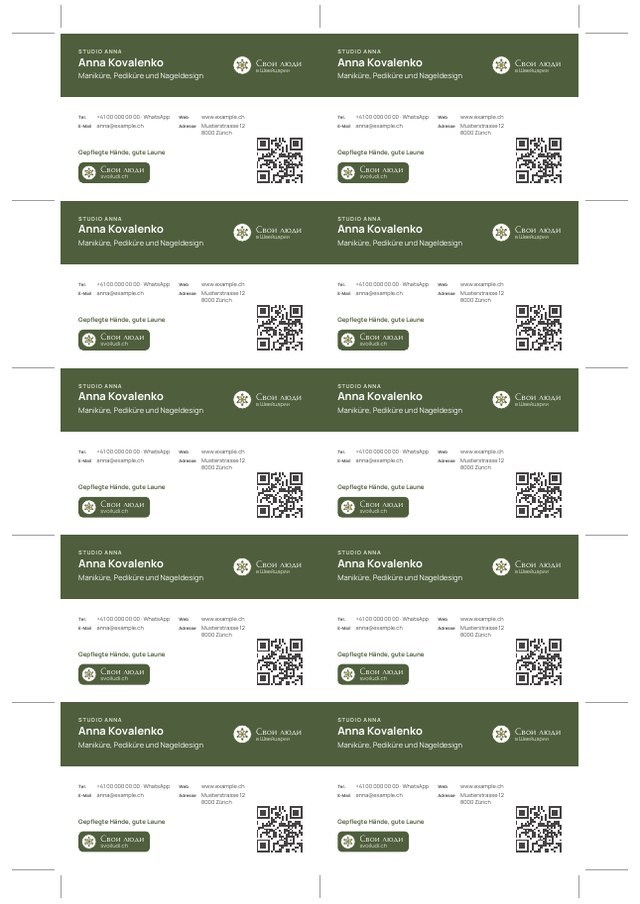
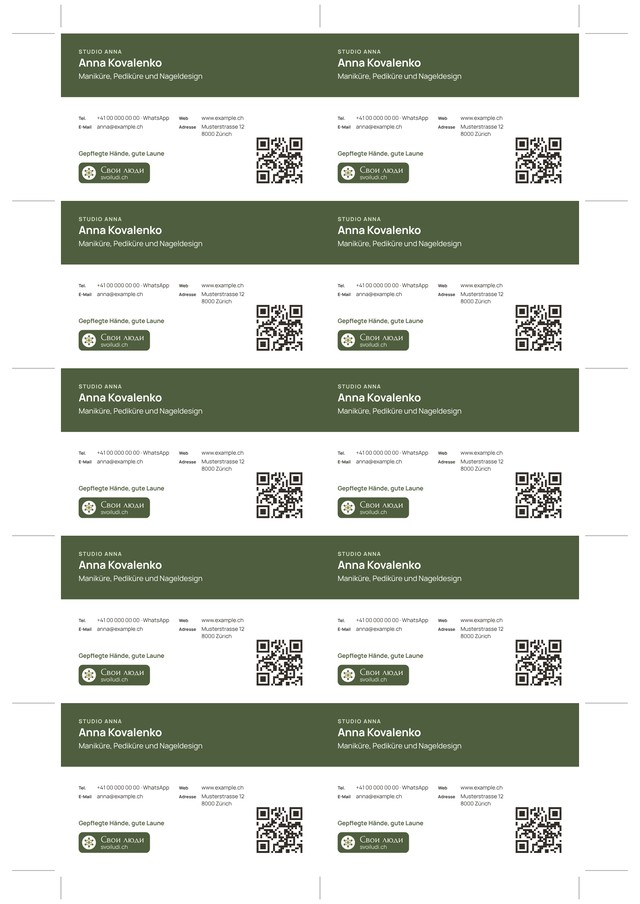
Визитка для печати: в примере без логотипа — «Свои люди» только знаком внизу
Claude-Session: https://claude.ai/code/session_01KYzKVqPN5JwVDB1sZfvcxk

diff --git a/instrumenty/vizitka/index.html b/instrumenty/vizitka/index.html
@@ -184,7 +184,7 @@ input:disabled,select:disabled{opacity:.7}
       <p class="hint" id="markNote"></p></div>
   </div>
 
-  <div class="exbar" id="exbar" hidden><span>Это пример: имя и контакты вымышленные, на месте логотипа — логотип «Свои люди». Так будет выглядеть твоя визитка.</span><button type="button" class="btn sm" id="exOff">Вернуться к моим данным</button></div>
+  <div class="exbar" id="exbar" hidden><span>Это пример, всё в нём вымышленное. Так будет выглядеть твоя визитка, свой логотип можно добавить в поле «Логотип или фото».</span><button type="button" class="btn sm" id="exOff">Вернуться к моим данным</button></div>
 
   <div class="work">
     <div class="form" id="fields">
@@ -383,12 +383,14 @@ function blank(){
 function merge(a, b){ Object.keys(b || {}).forEach(k => { if (a[k] && typeof a[k] === 'object' && !Array.isArray(a[k]) && b[k] && typeof b[k] === 'object') merge(a[k], b[k]); else if (b[k] !== undefined) a[k] = b[k]; }); return a; }
 function norm(s){ if (OLD[s.layout]) s.layout = OLD[s.layout]; if (!TPL.some(t => t[0] === s.layout)) s.layout = 'band'; if (!SIZES[s.size]) s.size = '85x55'; if (s.orient !== 'v') s.orient = 'h'; if (!['icon', 'text', 'none'].includes(s.cstyle)) s.cstyle = 'icon'; s.nomark = !!s.nomark; return s; }
 function load(){ try { const s = JSON.parse(localStorage.getItem(KEY)); if (s && typeof s === 'object') return norm(merge(blank(), s)); } catch (e) {} return blank(); }
-let S = load(), EX = null, LOGO = null, EXLOGO = null, EXNOLOGO = false, PAID = null, PAIDMSG = '';   // PAID — проверенный платный пакет (без знака «Свои люди»)
+let S = load(), EX = null, LOGO = null, PAID = null, PAIDMSG = '';   // PAID — проверенный платный пакет (без знака «Свои люди»)
 try { const l = JSON.parse(localStorage.getItem(KEYLOGO)); if (l && l.c) LOGO = l; } catch (e) {}
 function save(){ if (EX) return; try { localStorage.setItem(KEY, JSON.stringify(S)); } catch (e) {} }
 const D = () => EX || S;
 let LGX;   // логотип для миниатюр (подменяется на время их рисования)
-const LG = () => LGX !== undefined ? LGX : EX ? (EXNOLOGO ? null : EXLOGO) : LOGO;
+/* в примере логотипа нет: «Свои люди» на визитке — только знак внизу (Ирина 15.10.2026, 18:12: «свои люди только 1 раз, вверху убери»;
+   до этого на месте логотипа был логотип «Свои люди», а ещё раньше — вымышленный «Studio NAILS · BEAUTY») */
+const LG = () => LGX !== undefined ? LGX : EX ? null : LOGO;
 const get = (o, p) => p.split('.').reduce((a, k) => a == null ? a : a[k], o);
 const put = (o, p, v) => { const ks = p.split('.'), last = ks.pop(); ks.reduce((a, k) => a[k], o)[last] = v; };
 /* размер визитки в мм с учётом положения: [ширина, высота] */
@@ -614,23 +616,11 @@ function sign(P, d, o){
   return g.h;
 }
 /* логотип на белой скруглённой плашке (в шапке) или просто на белом поле */
-/* логотип «Свои люди» в примере (lg.svl) рисуем сами, прямо на фоне, без белой плашки (Ирина 14.10.2026, 22:33: «надпись «Свои люди» должна быть на фоне,
-   но без рамок»): кружок «своих» и рядом «Свои люди» и «в Швейцарии»; на шалфейной шапке — светлым, на белом поле — тёмным */
-const SVL_SUB = 'в Швейцарии';
-const svlRatio = () => { const H = 10, n = 0.5 * H / PT, u = 0.27 * H / PT; return 1.2 + Math.max(tw(SIGN.name, 'f', n), tw(SVL_SUB, 'r', u)) / H + 0.02; };
-function svlLogo(P, d, x, y, w, h, band){
-  const H = Math.min(h, w / svlRatio()), y0 = y + (h - H) / 2, x0 = x + (w - H * svlRatio()) / 2;
-  markIcon(P, x0, y0, H, d.bw);
-  const tx = x0 + H * 1.2, big = band ? C.BTX : (d.bw ? C.INK : '#3E4A31'), sub = band ? C.BSUB : C.MUT;
-  T(P, SIGN.name, tx, y0 + H * 0.56, 0.5 * H / PT, 'f', big);
-  T(P, SVL_SUB, tx, y0 + H * 0.86, 0.27 * H / PT, 'r', sub);
-}
 /* картинка логотипа в рамке x, y, w, h (рамка уже по пропорциям логотипа) */
-function logoImg(P, d, lg, x, y, w, h, band){ if (lg.svl) svlLogo(P, d, x, y, w, h, band); else P.img(logoData(d, lg), x, y, w, h); }
-/* белая плашка под логотипом — только у настоящих логотипов (у логотипа «Свои люди» её нет) */
-const plate = (P, lg, x, y, w, h, r) => { if (!lg.svl) P.rect(x, y, w, h, '#FFFFFF', null, r); };
+function logoImg(P, d, lg, x, y, w, h){ P.img(logoData(d, lg), x, y, w, h); }
+/* белая плашка под логотипом в шапке */
+const plate = (P, lg, x, y, w, h, r) => P.rect(x, y, w, h, '#FFFFFF', null, r);
 function logoAt(P, d, lg, x, y, w, h, plate){
-  if (lg.svl) { const lb = logoBox(lg, w, h); svlLogo(P, d, x + (w - lb.w) / 2, y + (h - lb.h) / 2, lb.w, lb.h, plate); return; }
   if (plate) { P.rect(x, y, w, h, '#FFFFFF', null, Math.min(w, h) * 0.12); const p = Math.min(w, h) * 0.12, lb = logoBox(lg, w - 2 * p, h - 2 * p); P.img(logoData(d, lg), x + (w - lb.w) / 2, y + (h - lb.h) / 2, lb.w, lb.h); }
   else { const lb = logoBox(lg, w, h); P.img(logoData(d, lg), x + (w - lb.w) / 2, y + (h - lb.h) / 2, lb.w, lb.h); }
 }
@@ -692,7 +682,7 @@ function tBandC(P, d, c, dr){
   if (dr) {
     bandRect(P, c, 0, hb);
     let y = c.Y + (hb - ih - (lph ? lph + c.g1 * 2 : 0)) / 2;
-    if (lb) { plate(P, lg, c.X + (c.CW - lpw) / 2, y, lpw, lph, 1.2); logoImg(P, d, lg, c.X + (c.CW - lb.w) / 2, y + 1.1, lb.w, lb.h, true); y += lph + c.g1 * 2; }
+    if (lb) { plate(P, lg, c.X + (c.CW - lpw) / 2, y, lpw, lph, 1.2); logoImg(P, d, lg, c.X + (c.CW - lb.w) / 2, y + 1.1, lb.w, lb.h); y += lph + c.g1 * 2; }
     ident(P, d, {x: c.x0, y, w: c.W, k: c.k, draw: true, band: true, align: 'center'});
     const xc = cx0;
     if (c.wide) {   // контакты по центру, фраза и знак — внизу по центру, QR-код — в правом нижнем углу
@@ -719,7 +709,7 @@ function tPanel(P, d, c, dr){
     const MH = c.y1 - cy - (fh || q ? c.g2 + Math.max(fh, q) : 0), ch = contacts(P, d, {x: c.x0, y: 0, w: c.W, k: c.k, style: st, draw: false, maxH: MH}).h;
     if (dr) {
       bandRect(P, c, 0, hb);
-      if (lb) { plate(P, lg, c.x0, c.Y + pad, lpw, lph, 1.2); logoImg(P, d, lg, c.x0 + (lg.svl ? 0 : 1.2), c.Y + pad + 1.1, lb.w, lb.h, true); }
+      if (lb) { plate(P, lg, c.x0, c.Y + pad, lpw, lph, 1.2); logoImg(P, d, lg, c.x0 + 1.2, c.Y + pad + 1.1, lb.w, lb.h); }
       ident(P, d, {x: c.x0, y: lb ? c.Y + hb - pad - ih : c.Y + (hb - ih) / 2, w: c.W, k: c.k, draw: true, band: true});
       if (ch) contacts(P, d, {x: c.x0, y: cy, w: c.W, k: c.k, style: st, draw: true, maxH: MH});
       if (fh) foot(P, d, {x: c.x0, y: c.y1 - fh, w: fw, k: c.k, draw: true, side: !q});
@@ -735,7 +725,7 @@ function tPanel(P, d, c, dr){
   const need = ch + (fh || q ? c.g2 + Math.max(fh, q) : 0);
   if (dr) {
     P.rect(c.X - bl, c.Y - bl, pw + bl, c.CH + 2 * bl, C.BAND);
-    if (lb) { plate(P, lg, px, c.y0, lpw, lph, 1.2); logoImg(P, d, lg, px + (lg.svl ? 0 : 1.2), c.y0 + 1.1, lb.w, lb.h, true); }
+    if (lb) { plate(P, lg, px, c.y0, lpw, lph, 1.2); logoImg(P, d, lg, px + 1.2, c.y0 + 1.1, lb.w, lb.h); }
     ident(P, d, {x: px, y: lb ? c.y1 - ih : vmid(c.y0, c.y1, ih), w: iwp, k: c.k, draw: true, band: true});
     const br = Math.max(fh, q), fb = br ? c.g2 + br : 0;   // внизу справа: фраза и знак слева, QR-код в правом нижнем углу
     if (ch) contacts(P, d, {x: rx, y: vmid(c.y0, c.y1 - fb, ch), w: rw, k: c.k, style: st, draw: true, maxH: MH});
@@ -756,7 +746,7 @@ function tSheet(P, d, c, dr){
   const need = ch + (fh ? (ch ? c.g2 : 0) + fh : 0);
   if (dr) {
     bandRect(P, c, 0, sh);
-    if (lb) logoImg(P, d, lg, c.wide ? c.x1 - lb.w : c.x0, top, lb.w, lb.h, false);
+    if (lb) logoImg(P, d, lg, c.wide ? c.x1 - lb.w : c.x0, top, lb.w, lb.h);
     ident(P, d, {x: c.x0, y: iy, w: iw, k: c.k, draw: true});
     P.line(c.x0, hy, c.x1, hy, C.LINE, 0.25);
     if (ch) contacts(P, d, {x: c.x0, y: cy, w: cw, k: c.k, style: st, draw: true, maxH: MH});
@@ -800,7 +790,7 @@ function back(P, d, X, Y){
     if (dr) {
       P.rect(c.X - (P.bl || 0), c.Y - (P.bl || 0), c.CW + 2 * (P.bl || 0), c.CH + 2 * (P.bl || 0), C.BAND);
       let y = vmid(c.y0, c.y1, H);
-      if (lb) { plate(P, lg, cx - lpw / 2, y, lpw, lph, 1.2); logoImg(P, d, lg, cx - lb.w / 2, y + 1.1, lb.w, lb.h, true); y += lph + (ih ? c.g2 : 0); }
+      if (lb) { plate(P, lg, cx - lpw / 2, y, lpw, lph, 1.2); logoImg(P, d, lg, cx - lb.w / 2, y + 1.1, lb.w, lb.h); y += lph + (ih ? c.g2 : 0); }
       if (ih) { ident(P, bd, {x: c.x0, y, w: tw2, k: c.k, draw: true, band: true, align: 'center'}); y += ih; }
       if (q) qrAt(P, url, c.wide ? c.x1 - q : cx - q / 2, c.wide ? vmid(c.y0, c.y1, q) : y + (lph || ih ? c.g3 : 0), q, true);
     }
@@ -847,29 +837,6 @@ function prepLogo(img){
   const g = o.getImageData(0, 0, cw, ch), gd = g.data; for (let i = 0; i < gd.length; i += 4) { const v = Math.round(gd[i] * 0.299 + gd[i + 1] * 0.587 + gd[i + 2] * 0.114); gd[i] = gd[i + 1] = gd[i + 2] = v; } o.putImageData(g, 0, 0);
   return {c: col, g: enc(), w: cw, h: ch, small: Math.max(img.naturalWidth, img.naturalHeight) < 500};
 }
-/* логотип в примере — логотип «Свои люди», как в шапке сайта: кружок «своих» и надпись (Ирина 14.10.2026, 12:42: «я это не хочу, там должны быть свои люди»;
-   раньше был вымышленный «Studio NAILS · BEAUTY» с ростком) */
-async function exampleLogo(){
-  try { await Promise.all([document.fonts.load('400 120px Forum'), document.fonts.load('600 40px Manrope')]); } catch (e) {}
-  const cv = document.createElement('canvas'); cv.width = 900; cv.height = 300; const c = cv.getContext('2d');
-  c.fillStyle = '#fff'; c.fillRect(0, 0, 900, 300);
-  const R = 135, cx = 150, cy = 150, k = R / 46;   // круг логотипа: viewBox 100, радиус 46
-  c.save(); c.translate(cx, cy); c.scale(k, k); c.translate(-50, -50);
-  c.beginPath(); c.arc(50, 50, 46, 0, Math.PI * 2); c.fillStyle = '#FFFCF8'; c.fill(); c.lineWidth = 3; c.strokeStyle = '#4F5E3E'; c.stroke();
-  const petal = new Path2D('M50 47 C42 41 40.5 33 44 31 C47 29.5 53 29.5 56 31 C59.5 33 58 41 50 47Z');
-  for (let i = 0; i < 6; i++) {
-    c.save(); c.translate(50, 50); c.rotate(i * Math.PI / 3); c.translate(-50, -50);
-    c.fillStyle = '#E3E8D6'; c.fill(petal); c.lineWidth = 2; c.strokeStyle = '#5E6B48'; c.stroke(petal);
-    c.beginPath(); c.arc(50, 24, 6.2, 0, Math.PI * 2); c.fillStyle = '#5E6B48'; c.fill();
-    c.restore();
-  }
-  c.beginPath(); c.arc(50, 50, 7, 0, Math.PI * 2); c.fillStyle = '#B98324'; c.fill();
-  c.restore();
-  c.fillStyle = '#3E4A31'; c.font = '400 118px Forum, Georgia, serif'; c.fillText('Свои люди', 320, 158);
-  c.fillStyle = '#7A6E62'; c.font = '600 46px Manrope, sans-serif'; c.fillText('в Швейцарии', 324, 228);
-  const img = new Image(); img.src = cv.toDataURL('image/png');
-  return new Promise(r => { img.onload = () => { const lg = prepLogo(img); if (lg) { lg.svl = true; lg.h = 1000; lg.w = Math.round(1000 * svlRatio()); } r(lg); }; img.onerror = () => r(null); });   // на визитке рисуется векторно (svlLogo), картинка — для поля «Логотип» в форме
-}
 
 /* ---------- экран ---------- */
 const st = $('status'), say = t => { st.textContent = t || ''; };
@@ -909,7 +876,7 @@ function fill(){
   $('markNote').textContent = EX ? 'В примере знак «Свои люди» стоит всегда.' : PAID ? `Пакет ${PAID.pkg} по карточке ${PAID.num} действует до ${ddmm(PAID.until)}: визитку можно скачать без знака.` : (PAIDMSG ? PAIDMSG + ' ' : '') + 'Внизу визитки — маленький знак «Свои люди». Убрать его можно с любым платным пакетом.';
   $('backFields').hidden = !d.back.on; $('qrToBox').hidden = d.qr.where === 'none'; $('qrUrl').hidden = d.qr.to !== 'url';
   const card = $('qrTo').querySelector('option[value="card"]'); card.disabled = !d.card; card.textContent = d.card ? 'На мою карточку в «Своих людях» (' + d.card.num + ')' : 'На мою карточку в «Своих людях» (сначала найди её по номеру)';
-  const lg = EX ? (EXNOLOGO ? null : EXLOGO) : LOGO; $('logoImg').hidden = !lg; if (lg) $('logoImg').src = lg.c; $('logoDel').hidden = !lg || dis; $('logoPick').hidden = dis;
+  const lg = EX ? null : LOGO; $('logoImg').hidden = !lg; if (lg) $('logoImg').src = lg.c; $('logoDel').hidden = !lg || dis; $('logoPick').hidden = dis;
   $('findQ').disabled = $('findBtn').disabled = dis; $('wipeBox').hidden = dis;
   $('exbar').hidden = !EX; $('exOn').hidden = !!EX;
   render();
@@ -1091,11 +1058,11 @@ const EXD = () => ({layout: 'band', font: 'sans', cstyle: 'text', size: S.size, 
   f: {name: 'Anna Kovalenko', role: 'Maniküre, Pediküre und Nageldesign', firm: 'Studio Anna', tag: 'Gepflegte Hände, gute Laune', serv: '', phone: '+41 00 000 00 00', wa: true, email: 'anna@example.ch', web: 'www.example.ch', ig: '', tg: '', street: 'Musterstrasse 12', city: '8000 Zürich', langs: []},
   back: {on: true, name: 'Анна Коваленко', role: 'Маникюр, педикюр и дизайн ногтей', line: 'Говорю по-русски и по-украински · запись в WhatsApp', logo: true},
   qr: {where: 'front', to: 'url', url: 'https://www.example.ch'}, card: null, nomark: false});
-async function exampleOn(opts, noLogo){ if (!noLogo && !EXLOGO) EXLOGO = await exampleLogo(); EXNOLOGO = !!noLogo; EX = norm(merge(EXD(), opts || {})); fill(); }
+async function exampleOn(opts){ EX = norm(merge(EXD(), opts || {})); fill(); }
 $('exOn').addEventListener('click', async () => { await exampleOn({layout: S.layout, font: S.font, cstyle: S.cstyle, qr: (S.layout === 'qr' || S.layout === 'onlyqr') ? {where: 'front'} : {}}); window.scrollTo({top: $('exbar').getBoundingClientRect().top + window.scrollY - 12, behavior: 'smooth'}); });
 $('exOff').addEventListener('click', () => { EX = null; fill(); });
 
-/* ссылка вида ?n=SG-0014 — подставить карточку сразу; ?example — пример (для веера и превью: &layout=, &font=, &cstyle=, &lbl=, &size=85x55|90x50|55x55, &orient=v, &qr=front|back|none, &nologo) */
+/* ссылка вида ?n=SG-0014 — подставить карточку сразу; ?example — пример (для веера и превью: &layout=, &font=, &cstyle=, &lbl=, &size=85x55|90x50|55x55, &orient=v, &qr=front|back|none) */
 const P0 = new URLSearchParams(location.search);
 fill();
 if (document.fonts && document.fonts.ready) document.fonts.ready.then(render);
@@ -1104,7 +1071,7 @@ if (P0.has('example')) {
   if (t) Object.assign(o, {layout: t[0], font: t[2], cstyle: t[3]}, (t[0] === 'qr' || t[0] === 'onlyqr') ? {qr: {where: 'front'}} : {});
   ['font', 'lbl', 'cstyle', 'size', 'orient'].forEach(k => { if (P0.get(k)) o[k] = P0.get(k); });
   if (P0.get('qr')) o.qr = {where: P0.get('qr')};
-  exampleOn(o, P0.has('nologo'));
+  exampleOn(o);
 }
 else if (P0.get('n')) { $('findQ').value = P0.get('n'); find(); }
 window.VIZ = {cardPage, a4, D, hasBack, printPages, homePages, dims, TPL, variant};

diff --git a/assets/pdffan.js b/assets/pdffan.js
@@ -121,8 +121,8 @@
       {t: "21 этикетка на французском с пищевой ценностью", d: "Маленькие этикетки 70×42 мм: замороженные пельмени, «лучше употребить до» и таблица на 100 г."}
     ]},
     'vizitka': {pages: '4', unit: 'вида', items: [
-      {t: "Визитка с шапкой и логотипом", d: "Вид «Шапка», как документы «Своих людей»: имя и чем ты занимаешься в шалфейной полосе сверху, логотип на белой плашке, ниже контакты с подписями, QR-код в правом нижнем углу и маленький знак «Свои люди». 85 × 55 мм, файл для типографии с запасом на обрез."},
-      {t: "Вертикальная визитка с панелью", d: "Вид «Панель слева» в вертикальном положении: высокая шалфейная шапка с логотипом и именем, ниже контакты, внизу фраза, знак «Свои люди» и QR-код на сайт или карточку в «Своих людях». 55 × 85 мм."},
+      {t: "Визитка с шапкой", d: "Вид «Шапка», как документы «Своих людей»: имя и чем ты занимаешься в шалфейной полосе сверху (свой логотип встанет туда на белой плашке), ниже контакты с подписями, QR-код в правом нижнем углу и маленький знак «Свои люди». 85 × 55 мм, файл для типографии с запасом на обрез."},
+      {t: "Вертикальная визитка с панелью", d: "Вид «Панель слева» в вертикальном положении: высокая шалфейная шапка с именем (и логотипом, если добавишь), ниже контакты, внизу фраза, знак «Свои люди» и QR-код на сайт или карточку в «Своих людях». 55 × 85 мм."},
       {t: "Визитка «Лист» без логотипа", d: "Тонкая шалфейная полоса сверху, как у бланка: имя тёмным, чем ты занимаешься — шалфейным, тонкая линия, контакты с подписями на языке кантона и QR-код в правом нижнем углу."},
       {t: "Лист A4 для печати дома", d: "Столько визиток, сколько помещается на лист, с метками, где резать: 10 визиток 85 × 55 мм, как на готовых листах с перфорацией. Обратная сторона — вторым листом, для печати с двух сторон."}
     ]},

diff --git a/_i18n/JOURNAL.md b/_i18n/JOURNAL.md
@@ -172,3 +172,4 @@
 - 14.10.2026, 12:45 — КОПИЯ, ветка `kopiya-vizitka` (Ирина 12:33: «что это за лого? где там свои люди? мой кружочек на зелёном фоне с надписью свои люди»): знак «Свои люди» на «Визитке для печати» — шалфейная плашка, как тёмный значок «Я в справочнике» (badge/): светлый кружок «Свои люди» из логотипа сайта, «Свои люди» Forum светлым и svoiludi.ch; компактный — одной строкой; «Без цвета» — светло-серая плашка и чёрный текст (`sign`, `signGeo`). Веер, превью, подсказка и новость обновлены. Проверено: 180 сочетаний, квадраты, PDF, «Без цвета».
 - 14.10.2026, 12:55 — КОПИЯ, ветка `kopiya-vizitka` (Ирина 12:42, со снимком логотипа «Studio NAILS · BEAUTY» из примера: «я это не хочу, там должны быть свои люди»): в примере «Визитки для печати» вместо вымышленного логотипа с ростком — логотип «Свои люди», как в шапке сайта: кружок «своих», «Свои люди» Forum и «в Швейцарии» (`exampleLogo`); полоса примера: «имя и контакты вымышленные, на месте логотипа — логотип «Свои люди»». В «Шапке по центру» логотип мельчает вместе со шрифтом. Веер и превью ссылки пересобраны.
 - 14.10.2026, 22:40 — КОПИЯ, ветка `kopiya-vizitka` (Ирина 22:33: «надпись свои люди должна быть на фоне, но без рамок»): логотип «Свои люди» в примере «Визитки для печати» рисуется векторно прямо на фоне, без белой плашки (`svlLogo`, `logoImg`, `plate`; флаг `lg.svl` у `exampleLogo`): на шалфейной шапке — светлым, на белом поле — тёмным, «Без цвета» — чёрным. Логотипы людей остаются на белой плашке. Веер и превью ссылки пересобраны.
+- 15.10.2026, 18:20 — КОПИЯ, ветка `kopiya-vizitka` (Ирина 18:12, со снимком примера: «свои люди только 1 раз, вверху убери»): в примере «Визитки для печати» логотипа больше нет — «Свои люди» на визитке только знаком внизу. Убраны `exampleLogo`, `svlLogo` и флаг `lg.svl`; полоса примера: «Это пример, всё в нём вымышленное… свой логотип можно добавить в поле «Логотип или фото»». Свой логотип человека — как раньше, на белой плашке в шапке. Веер (1, 2, 4), подписи веера и превью ссылки пересобраны. Проверено: 20 сочетаний вида, размера и положения в примере, свой логотип.
